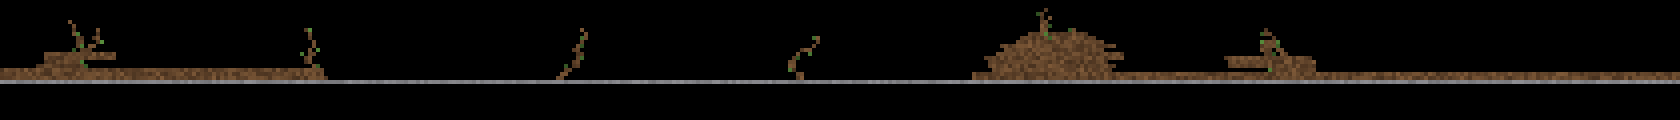
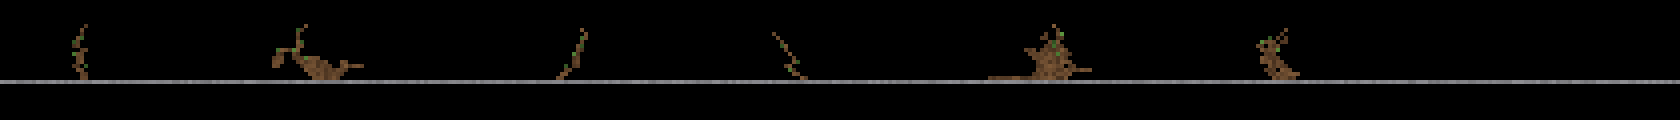
Record the economy pass, and why thicken() doubled establishment
The `thicken()` fix's larger effect was not trunk shape. Isolated at n=12
by reverting only the width rule:

  baseline established   5/12 (42%)  ->  11/12 (92%)
  best variant             75%       ->   100%

`thicken` grows *through* its own leaves, so an unbounded trunk ate the
seedling's early foliage faster than the seedling could replace it,
starving the plant that was building it. Peak foliage 31 -> 55 leaves. The
visible symptom -- a slab of wood -- was two steps removed from the damage,
which was seedlings quietly failing to establish at all.

Worth keeping as a shape of bug: a mechanism that consumes a resource *and*
is gated on a quantity it can drive to zero will run away.

PLAN.md now carries the whole economy pass: the ensemble harness and the
n=1 ranking it invalidated, the contrast tuning, the thicken fix, and the
standing warning not to tune against `rows >1 cell wide` -- that metric is
dominated by the basal slab and cost eight A/B runs before anyone asked
what it counted.

diff --git a/src/sim/plant.rs b/src/sim/plant.rs
@@ -1481,6 +1481,22 @@ const MAX_STEM_WIDTH: i32 = 24;
 ///
 /// Measuring the whole run makes the gate terminate where the pipe model
 /// says it should: at `leaf_count / pipe_ratio` cells wide.
+///
+/// **The larger consequence is not trunk shape, it is whether seedlings
+/// live at all**, and that was not predicted -- it was measured, and then
+/// explained. `thicken` deliberately grows *through* its own leaves (see
+/// the `own_leaf` branch below, and its grounding in real leaf-trace
+/// severance). An unbounded trunk therefore ate the seedling's early
+/// foliage faster than the seedling could replace it, starving the plant
+/// that was building it. Bounding the width lets those leaves survive:
+/// across all six variants of `debug_tree_variants` at n=12, the baseline
+/// went from **5/12 established to 11/12**, and the best variant from 75%
+/// to 100%. Peak foliage on the best tree went 31 -> 55 leaves.
+///
+/// Worth keeping as a shape of bug rather than just a fix: a mechanism
+/// that consumes a resource *and* is gated on a quantity it can drive to
+/// zero will run away, and the visible symptom (a slab of wood) was two
+/// steps removed from the damage (seedlings quietly failing to establish).
 fn stem_width(world: &World, x: i32, y: i32, organism_id: u16, axis: [(i32, i32); 2]) -> usize {
     let mut width = 1usize;
     for (dx, dy) in axis {

diff --git a/PLAN.md b/PLAN.md
@@ -3818,8 +3818,92 @@ is unreachable. Worth noting the trap: the *chain* canalization test passes
 under packing either way (flux saturates Φ), so only the discriminating gate
 dies — a guard suite that looks green while the mechanism is unmeasurable.
 
-**Still to do after that:** polarity (Decision 6), the one economy pass
-(Decision 4's remainder), and bud break — in that order, unchanged.
+**Polarity landed** (`12739bc`), and the economy pass is under way. **Bud
+break is the remaining item.**
+
+### Polarity (Decision 6) — landed
+
+`carbon_conductance: [f32; 4]` on `OrganismCell`, the pairwise carrier rule
+with substeps, the Hill-function conductance update, and `Grow`'s
+`away_from_growth` → `away_from_supply` swap. Gate was a picture as well as
+unit tests: `render.rs` gained a VEIN CONDUCTANCE channel (`B` in-app,
+`channel=vein` in filmstrip) and `plant_probe` prints the distribution
+beside it. Sheets under `docs/screenshots/plant-v2-polarity/`.
+
+Deviated from §7f in one place, recorded in `transport`: density cannot run
+through the general pairwise form and stay "bit-for-bit" the symmetric
+average, because the mean rule and the pairwise rule differ by the
+neighbour count. Density keeps its tested rule.
+
+The §7h Y-junction test asserts the *claim*, not the illustration. §7h pins
+the stem at 1.0 for hunger and caps delivery at Q=0.3, which a running
+simulation cannot do both of; pinning drives flux to ~19× J_REF, saturates
+Φ on both faces and collapses the conductance ratio to 1.00. Supply-limited
+instead, the ratio lands at 1.26 against §7h's predicted 1.38.
+
+### The economy pass — three things landed, in this order
+
+**1. The harness had to become an ensemble first, and it immediately
+justified itself** (`f4ce696`). `debug_tree_variants` compared six variants
+at one tree each. Its n=1 output read as "highrate is 3× baseline"; at n=8
+that variant spans 15 to 488 and every range overlaps every other. **Any
+tuning decision taken on the old harness would have been wrong.** It now
+prints the full value list and refuses to rank when the leader's median
+sits inside the runner-up's range.
+
+Two side findings: growth converges by **4,000** frames (counts identical
+at 4k/10k/20k), so the old 20,000 was 3× longer than needed; and replicates
+must be different planting *positions*, since `rng::stream` is seeded from
+position and re-running one scene draws identical numbers.
+
+**The finding that matters is that the outcome is bimodal** — 13–21 cells
+(germinated then stopped) or 100–500, almost nothing between. A mean
+describes a population that does not exist. Report the **establishment
+rate** instead.
+
+**2. Canalization contrast 30:1 → 10:1** (`11c2b1e`). §7e names the
+contrast as the first knob when seedlings stall, ahead of
+`CARBON_SUBSTEPS`; measured, and it is right.
+
+| contrast | established | cells | strand contrast achieved |
+|---|---|---|---|
+| 30:1 | 54/96 (56%) | 4,906 | 20.7× of 30 |
+| **10:1** | **70/96 (73%)** | **6,321** | 6.1× of 10 |
+
+`TRANSPORT_RATE` re-derives with it (0.008 → 0.024) and that coupling *is*
+the mechanism: lowering contrast raises the rate the stability bound
+permits, and unpolarized tissue conducts at `RATE · CONDUCTANCE_MIN`, so a
+seedling with no strand gets 3× the transport. 5:1 tried and rejected.
+
+**3. `thicken()` measures the trunk's real cross-section** (`c0e278f`) —
+and this was the big one.
+
+`width` was a count of immediate left/right neighbours, so the *growing end
+of a run* always read 2 however wide the trunk had become. It passed
+`leaf_count / width > pipe_ratio` forever and spread sideways without
+limit. Now the full contiguous run, measured perpendicular to the stem
+(axis from `supply_direction` — the first consumer of the conductance field
+outside transport).
+
+| | before | after |
+|---|---|---|
+| thickest run on one row | 105 | 51 |
+| stem thickness above base, max | 103 | 32 |
+| stem thickness above base, median | 5 | 6 |
+| rows >1 cell wide | 38% | 44% |
+| leaves, max | 31 | 55 |
+
+**And it roughly doubled establishment** — baseline 5/12 → 11/12 at n=12,
+best variant 75% → 100%. Not predicted; measured, then explained.
+`thicken` grows *through* its own leaves, so an unbounded trunk ate the
+seedling's foliage faster than it could be replaced, starving the plant
+building it. The visible symptom (a slab) was two steps removed from the
+damage (seedlings quietly failing).
+
+**Do not tune against `rows >1 cell wide`.** It is dominated by the basal
+slab; eight A/B runs were spent chasing a "regression" in it that turned
+out to be the metric, not the trees. Judge on **stem thickness above the
+base**, on the **establishment rate**, and on the picture.
 
 **Two bugs step 2c exposed, both older than it, both recorded where they
 bite:**
